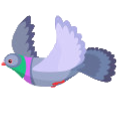
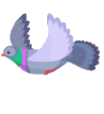
resize images; added pigeon hitbox

diff --git a/js/class.js b/js/class.js
@@ -218,6 +218,9 @@ class Pigeon extends Enemy {
 
         this.fly()
 
+        let sprite_index = Math.floor(this.frame_count / this.flap_rate)
+        this.hit_box = SPRITE_HIT_BOX.pigeon[sprite_index]
+
         if (is_intersecting_player(this)) {
             this.has_hit_player = true
             this.image_set = this.image_set_b
@@ -340,10 +343,9 @@ class Fire extends Enemy {
 
 class Butter extends Actor {
     static WIDTH = 65
-    static HEIGHT = 26
 
     constructor(props = {}) {
-        super({...props, width: Butter.WIDTH, height: Butter.HEIGHT})
+        super(props)
         this.is_collected = false
         this.float_up = true
         this.float_dist = 0

diff --git a/js/sprite_data.js b/js/sprite_data.js
@@ -29,6 +29,11 @@ const SPRITE_HIT_BOX = {
     },
 
     pigeon: [
-        { }
+        { dx: 0, dy: 0,  width: 101, height: 77, },
+        { dx: 0, dy: 12, width: 101, height: 64, },
+        { dx: 0, dy: 40, width: 104, height: 49, },
+        { dx: 0, dy: 41, width: 100, height: 73, },
+        { dx: 0, dy: 41, width: 100, height: 63, },
+        { dx: 0, dy: 22, width: 101, height: 55, },
     ],
 }
